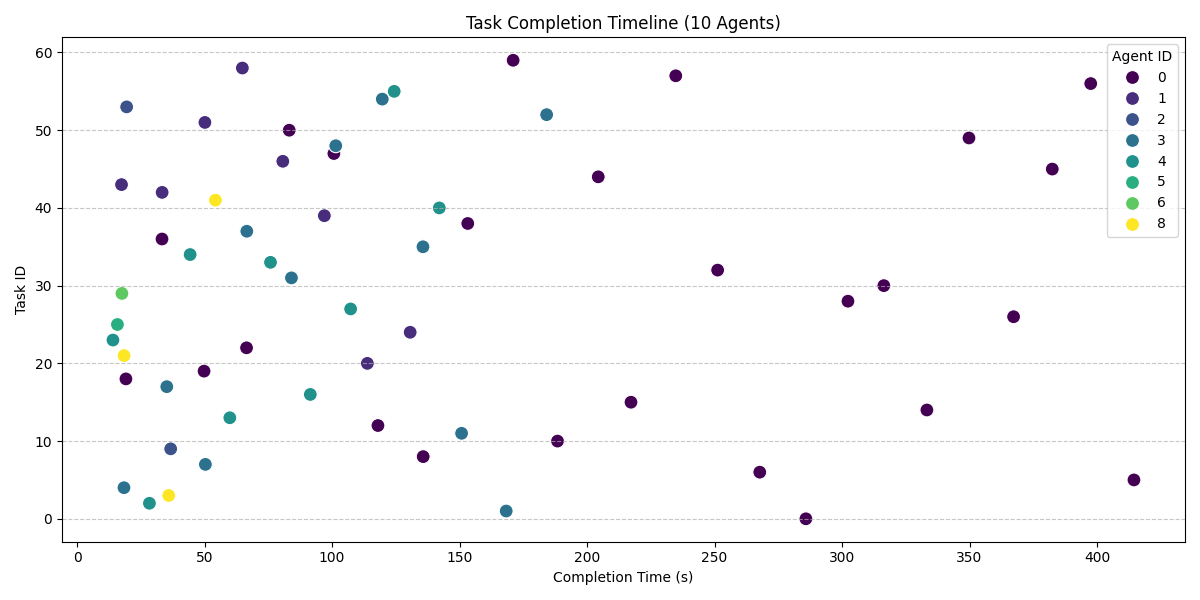
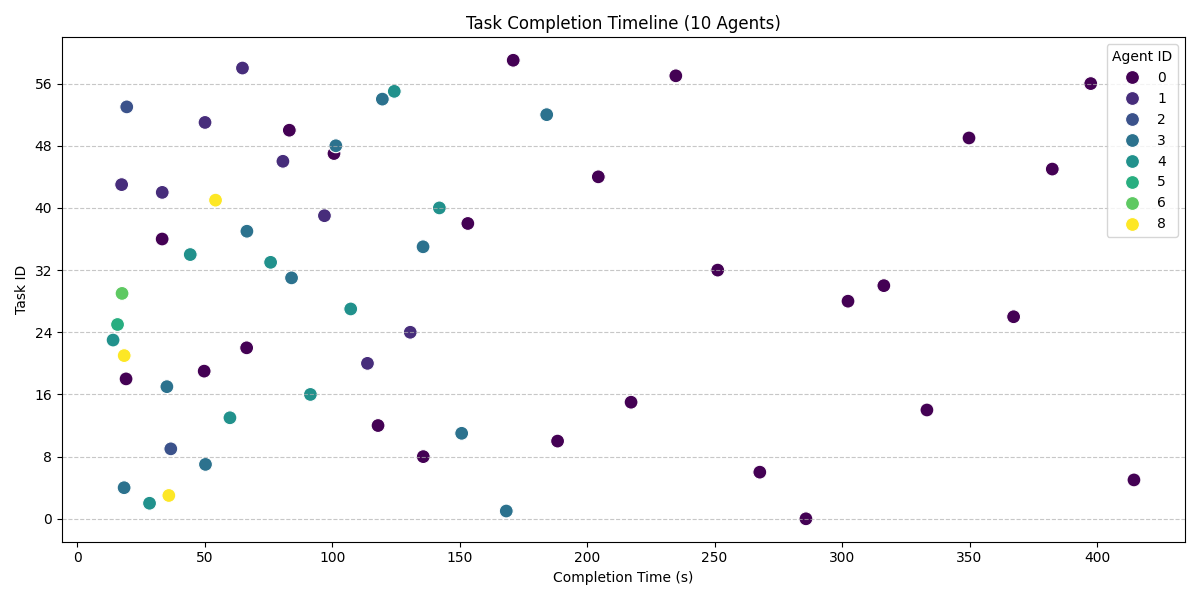
bugfix

diff --git a/visualize_task_assignment.py b/visualize_task_assignment.py
@@ -139,7 +139,6 @@ def load_optimization_logs(log_dir, prefix='optimization_log'):
 
 # --- Plotting Functions ---
 
-# Removed plot_iterations_vs_agent_tasks as requested
 
 def plot_task_completion_timeline_per_run(df_tasks_subset, n_agents, output_dir):
     """Plots task completion timeline for a specific run."""
@@ -152,11 +151,11 @@ def plot_task_completion_timeline_per_run(df_tasks_subset, n_agents, output_dir)
     df_plot = df_tasks_subset.sort_values('completion_time')
 
     plt.figure(figsize=(12, 6))
-    sns.scatterplot(data=df_plot, x='completion_time', y='task_id', hue='agent_id', palette='viridis', s=100, legend='full')
+    ax = sns.scatterplot(data=df_plot, x='completion_time', y='task_id', hue='agent_id', palette='viridis', s=100, legend='full')
     plt.title(f'Task Completion Timeline ({n_agents} Agents)')
     plt.xlabel('Completion Time (s)')
     plt.ylabel('Task ID')
-
+    ax.yaxis.set_major_locator(mticker.MaxNLocator(integer=True))
     # Adjust legend position
     if len(df_plot['agent_id'].unique()) > 10:
         plt.legend(title='Agent ID', bbox_to_anchor=(1.05, 1), loc='upper left')
@@ -166,7 +165,6 @@ def plot_task_completion_timeline_per_run(df_tasks_subset, n_agents, output_dir)
         plt.tight_layout()
 
     plt.grid(True, axis='y', linestyle='--', alpha=0.7)
-
     filename = os.path.join(output_dir, f'{plot_name}.png')
     plt.savefig(filename)
     print(f"Saved plot: {filename}")
@@ -283,7 +281,7 @@ def plot_avg_iterations_vs_total_tasks(df_opt, output_dir):
 
     # Set y-axis to use integer ticks if appropriate range
     # Use MaxNLocator for automatic integer ticks if the range allows
-    ax.yaxis.set_major_locator(mticker.MaxNLocator(integer=True, min_n_ticks=4))
+    ax.yaxis.set_major_locator(mticker.MaxNLocator(integer=True))
 
 
     ax.grid(True, linestyle='--', alpha=0.7)
